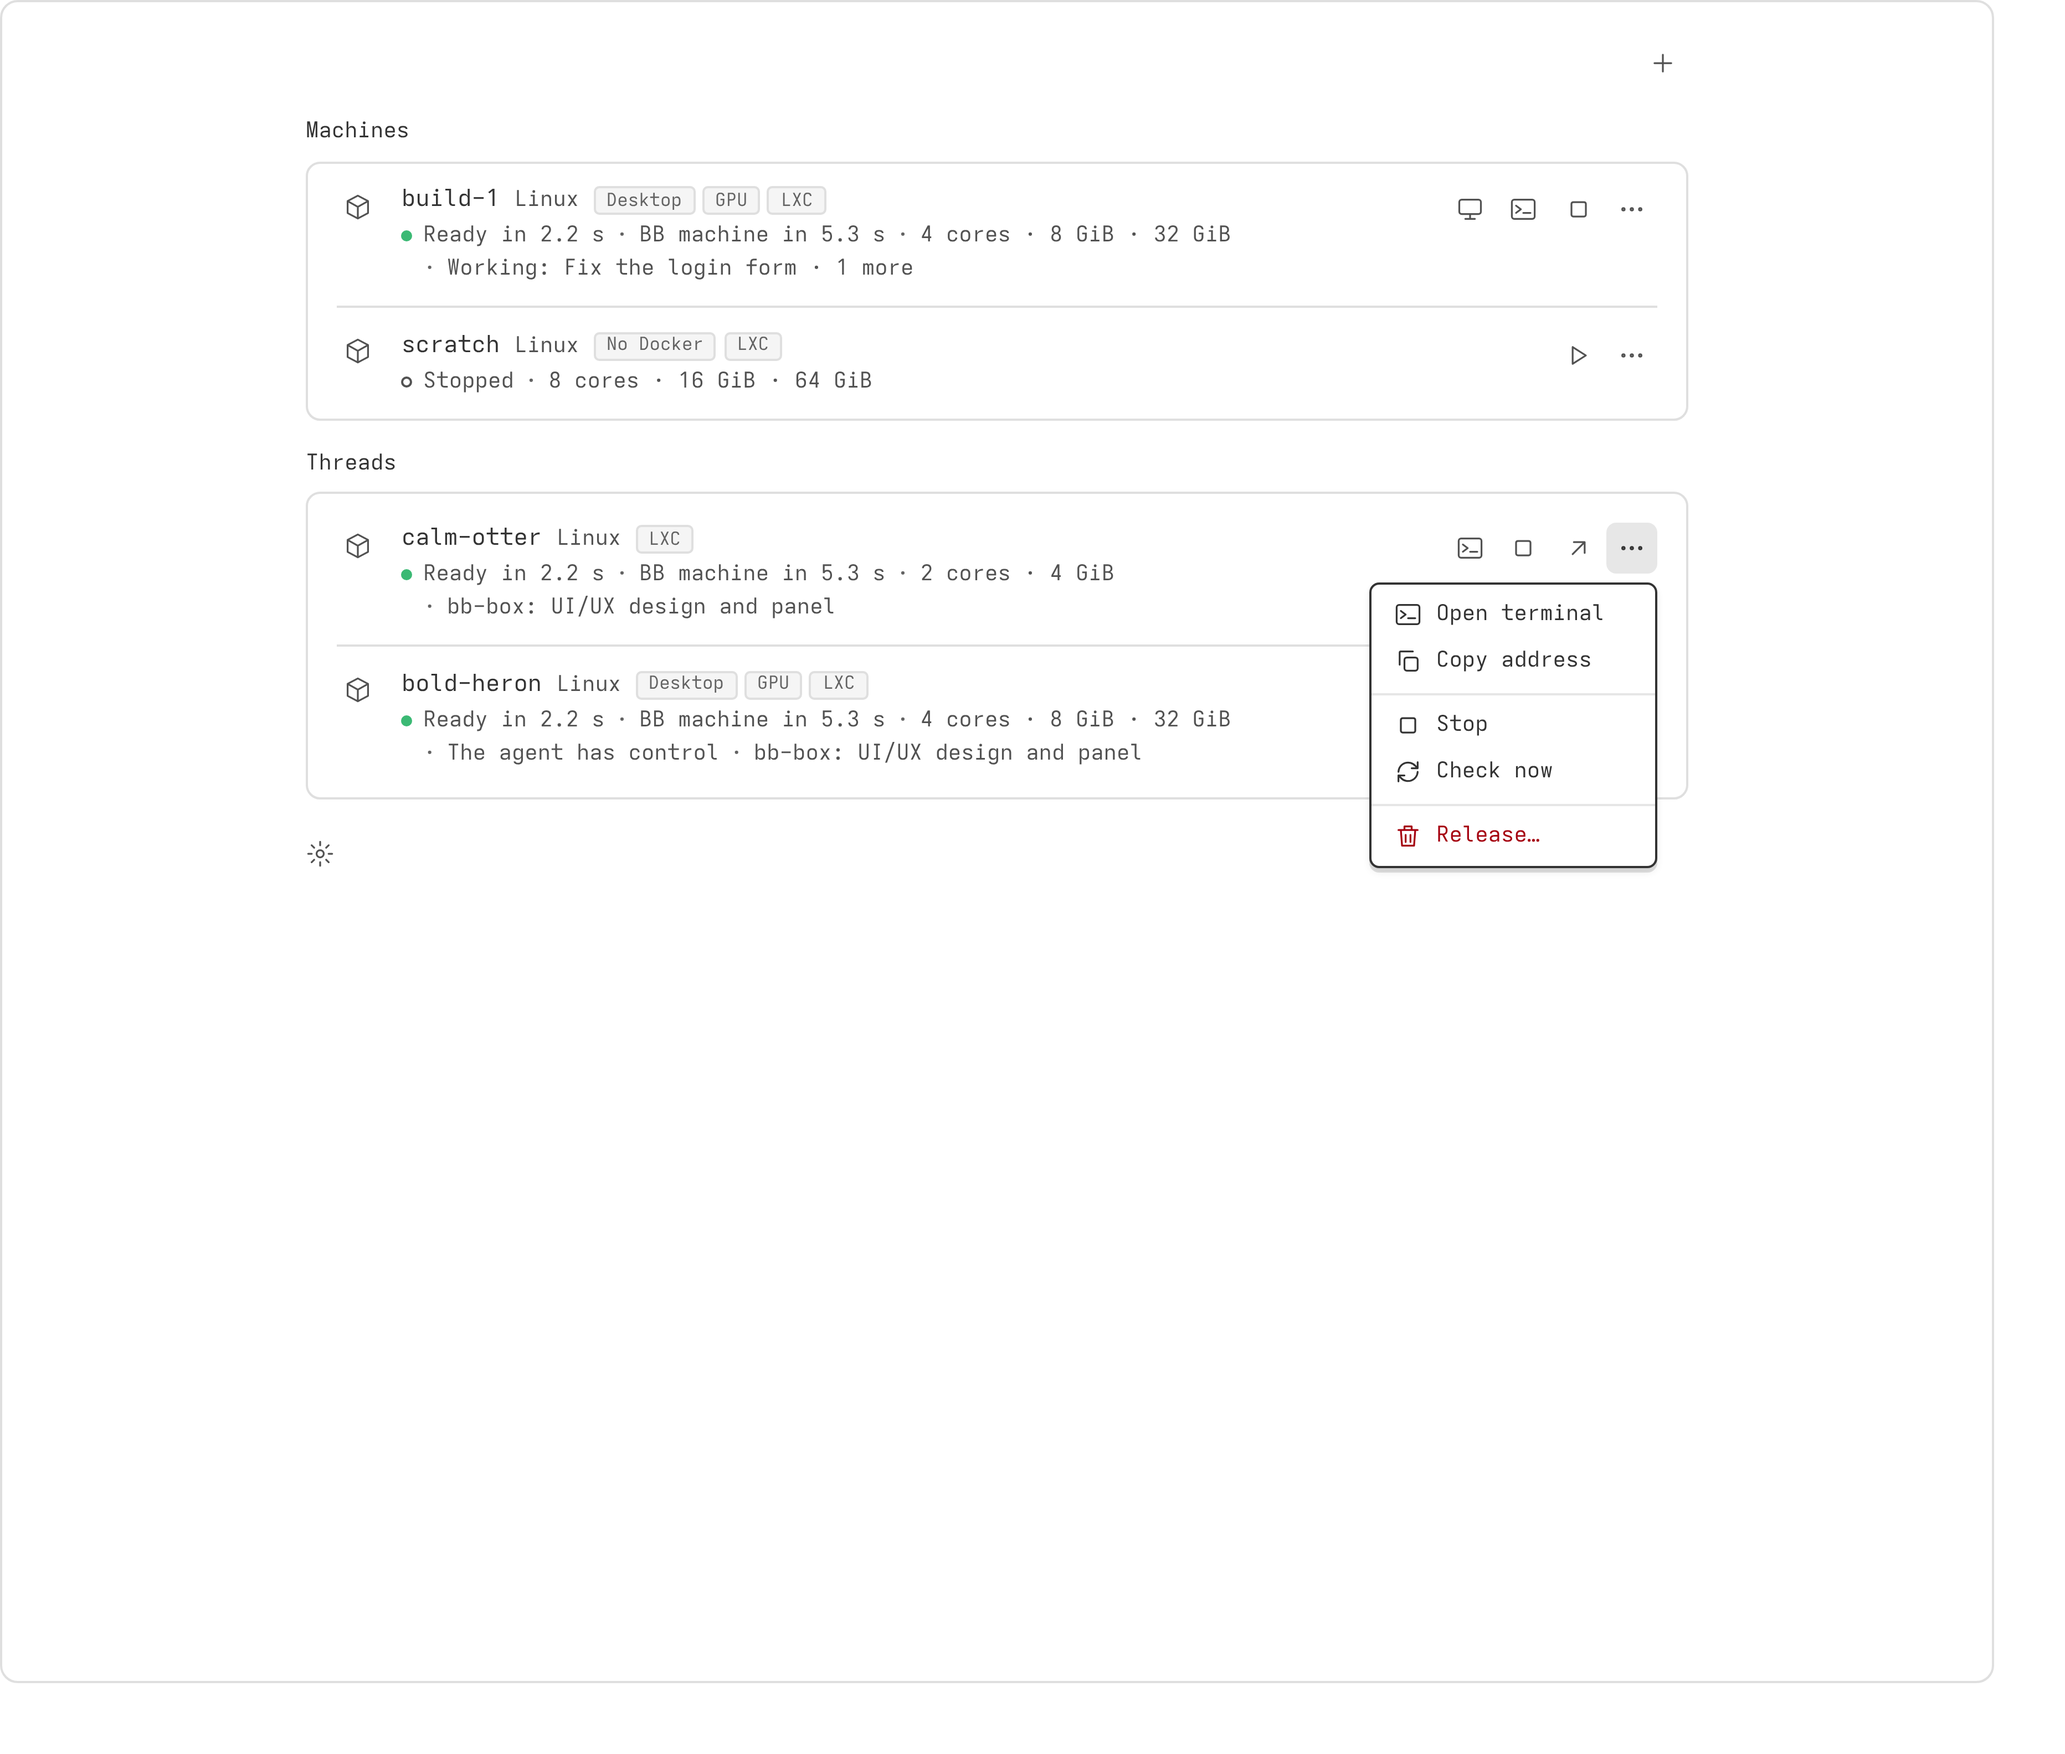
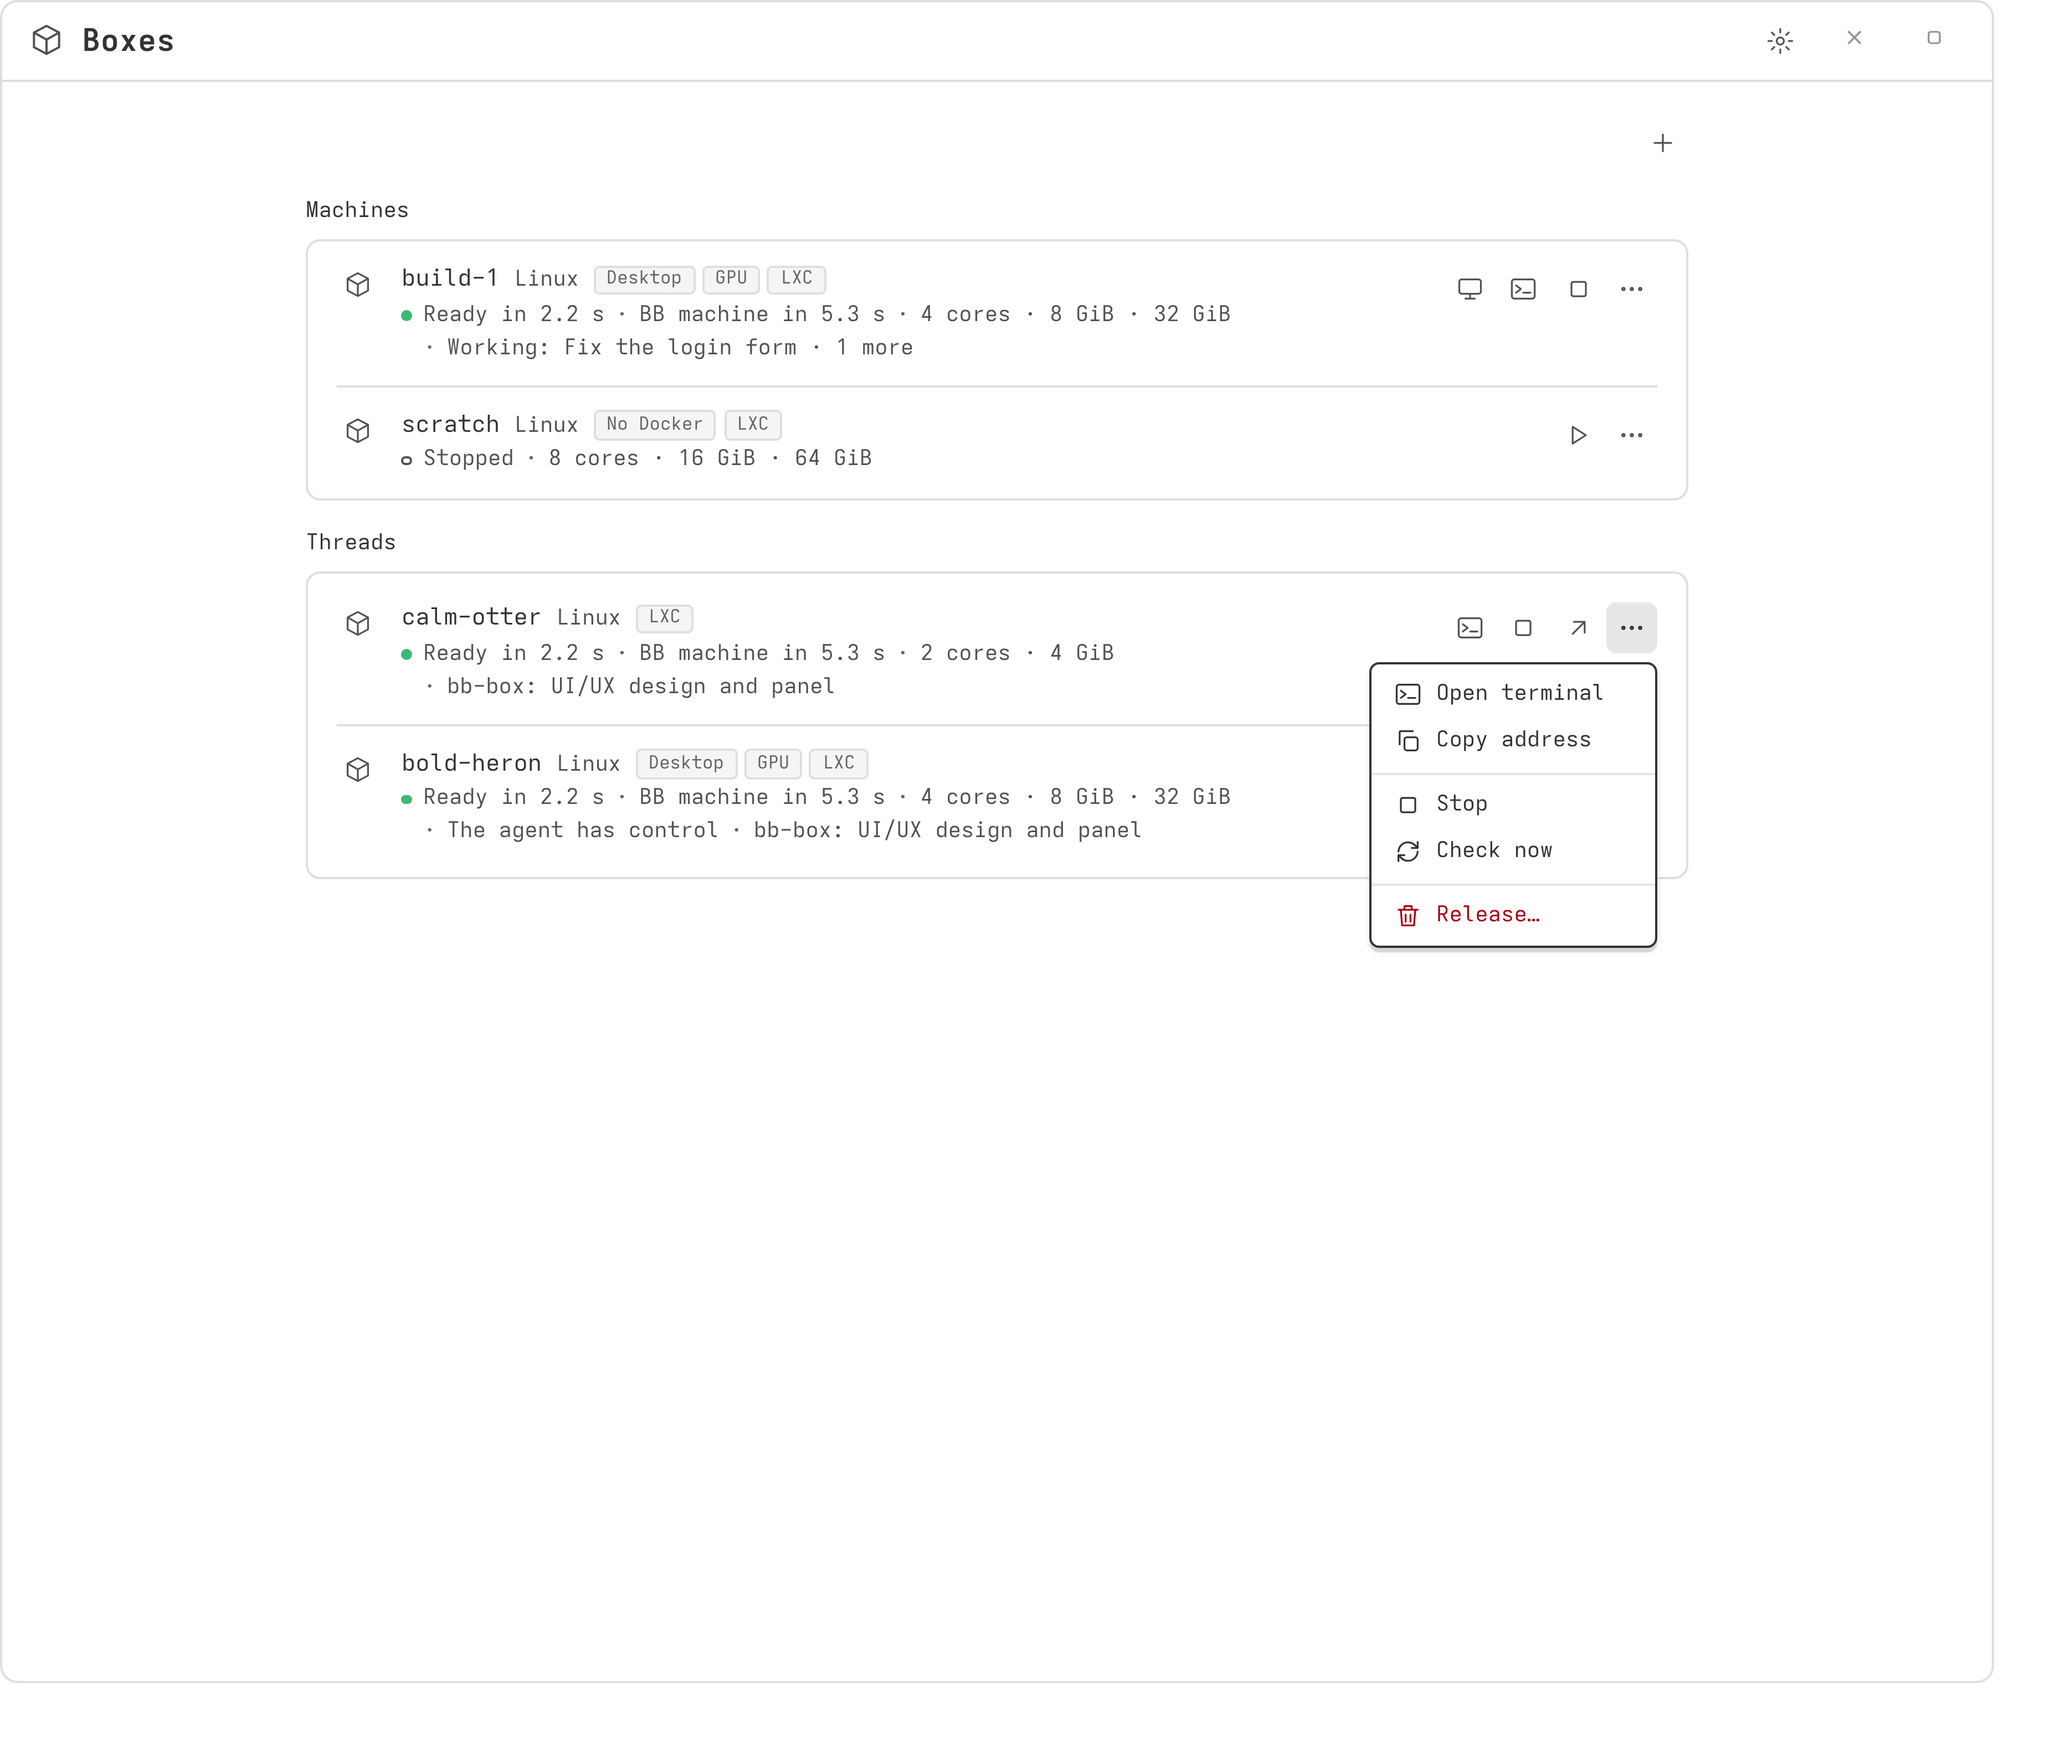
feat(app): the Boxes page's settings gear sits in BB's title bar, through the nav panel's headerContent; BB request 18 for a slot beside the title (036) (#477)
The operator's note of 5 October 2026: try the Boxes page's settings gear
in the page's header bar, next to the "Boxes" title.

SDK 0.5.29 has one supported way into that bar: the nav panel's
headerContent, a component BB renders in the title bar. BB's
PluginPanelHeader puts it on the bar's right, before the pane's own
actions and the right-panel toggle; PluginPanelHeaderCenter owns the icon
and title on the left and takes nothing from a plugin. So the gear can be
in the header bar, through the supported slot, but not right after the
title, and BB's DOM is left alone.

The gear is BoxesPageHeader, the same IconLink to Settings > BB Box with
the tooltip "BB Box settings", registered as the nav panel's
headerContent; it is gone from under the lists. The preview harness draws
a stand-in for BB's title bar over the Boxes page, with the headerContent
on its right, so the shots show where it lands. The test renders the
headerContent and checks the link, and that the page has no gear.

docs/bb-requests.md gains #18, a slot beside a nav page's title (log only,
not sent; #17 is #458's); panel.md follows.

diff --git a/test/app.test.tsx b/test/app.test.tsx
@@ -2194,19 +2194,22 @@ test("the Boxes page's Machines have settings' rows and warnings: Stop, Start an
   await waitFor(() => expect(changes.at(-1)).toBe("machines.remove box_m2"));
 });
 
-test("the Boxes page ends with the BB Box settings gear under the lists, a link to Settings > BB Box; the plus stays alone at the top", async () => {
+test("the Boxes page's settings gear sits in BB's title bar, through the nav panel's headerContent, as a link to Settings > BB Box", async () => {
+  const [page] = app.navPanels;
+  expect(page!.headerContent).toBeTruthy();
+  // The title bar's slot: the gear alone, a link, with its name in the tooltip and accessible name.
+  const header = renderSlot({ ...page!, component: page!.headerContent! }, { subPath: "" }, { rpc: server([box()]).handlers, pluginId: "bb-box" });
+  const settingsLink = header.getByRole("link", { name: "BB Box settings" });
+  expect(settingsLink.getAttribute("href")).toBe("/settings/plugins/bb-box");
+  expect(settingsLink.textContent).toBe("");
+  cleanup();
+  // The page itself has no gear any more, under the lists or beside the plus.
   const list = boxesPage(server([box()]).handlers);
   await list.findByText("calm-otter");
-  // A link, not a button calling openUrl: openUrl takes only http(s) URLs and did nothing with this app path (5 October 2026).
-  const settingsLink = list.getByRole("link", { name: "BB Box settings" });
-  expect(settingsLink.getAttribute("href")).toBe("/settings/plugins/bb-box");
-  // The gear alone, no text; under the lists, after the last row, not beside the plus.
-  expect(settingsLink.textContent).toBe("");
-  expect(settingsLink.closest("div")?.querySelector('button[aria-label="Add machine"]')).toBeNull();
-  const lastRow = list.getByRole("button", { name: "calm-otter: details" });
-  expect(lastRow.compareDocumentPosition(settingsLink) & Node.DOCUMENT_POSITION_FOLLOWING).toBeTruthy();
+  expect(list.queryByRole("link", { name: "BB Box settings" })).toBeNull();
   expect(list.queryByRole("button", { name: "BB Box settings" })).toBeNull();
 });
+
 
 
 test("a refusal in the Box panel or on the Boxes page is a red line with Dismiss", async () => {

diff --git a/scripts/preview/harness.js b/scripts/preview/harness.js
@@ -194,7 +194,7 @@ frame.style.flexDirection = "column";
 root.style.flex = "1";
 root.style.minHeight = "0";
 chrome.innerHTML = scene.chrome ?? "";
-if (!scene.chrome) chrome.remove();
+if (!scene.chrome && !(scene.slot === "boxes-page")) chrome.remove();
 
 // The cross-thread Boxes page is slot "boxes-page"; the per-thread Box panel is
 // the thread-panel action whose id is "boxes" (BOXES_ACTION), so a "boxes" scene
@@ -206,6 +206,13 @@ const slot =
       ? slots.navPanels[0]
       : slots.threadPanelActions.find((action) => action.id === scene.slot);
 root.className = slot.layout === "flush" ? "flush" : scene.slot === "boxes-page" ? "" : "padded";
+// BB's title bar over a nav page, as PluginPanelHeader draws it: the icon and title on the left, the panel's
+// headerContent on the right, then BB's own buttons (two dim placeholders here).
+if (scene.slot === "boxes-page") {
+  chrome.className = "titlebar";
+  chrome.innerHTML = `<span class="title"><svg viewBox="0 0 24 24" fill="none" stroke="currentColor" stroke-width="1.5" stroke-linecap="round" stroke-linejoin="round"><path d="M12 2.5 20.5 7v10L12 21.5 3.5 17V7z"/><path d="M3.8 7.2 12 11.8l8.2-4.6M12 11.8v9.5"/></svg>${slot.title}</span><span class="spacer"></span><span class="header-content" data-bb-plugin="bb-box"></span><span class="bb-button">×</span><span class="bb-button">▢</span>`;
+  if (slot.headerContent) ReactDOMClient.createRoot(chrome.querySelector(".header-content")).render(h(slot.headerContent, { subPath: scene.props?.subPath ?? "" }));
+}
 const reactRoot = ReactDOMClient.createRoot(root);
 reactRoot.render(h(slot.component, scene.props ?? { threadId: THREAD, params: null }));
 await new Promise((resolve) => setTimeout(resolve, 300));

diff --git a/src/app/desktop.tsx b/src/app/desktop.tsx
@@ -116,6 +116,15 @@ function visibleCursor(image: { rgbaPixels: Uint8Array; w: number; h: number } |
   return false;
 }
 
+/**
+ * The Boxes page's part of BB's title bar (`headerContent`): the settings gear, a link to Settings > BB Box, with
+ * the tooltip "BB Box settings" (the operator, 5 October 2026). SDK 0.5.29 offers this slot on the bar's right,
+ * before BB's own buttons, and none beside the title (docs/bb-requests.md #18).
+ */
+export function BoxesPageHeader() {
+  return <IconLink label="BB Box settings" icon="Settings" href={SETTINGS_PATH} />;
+}
+
 /** Where the Boxes page shows one box, for a new browser tab. */
 export function pageHref(pluginId: string, threadId: string, boxId: string): string {
   return `/plugins/${encodeURIComponent(pluginId)}/${DESKTOP_PAGE}/${encodeURIComponent(threadId)}/${encodeURIComponent(boxId)}`;
@@ -1137,10 +1146,6 @@ function BoxList() {
             </div>
           </div>
         ) : null}
-        {/* Where the page's content ends, left-aligned with the lists: the gear alone, named in its tooltip (the operator, 5 October 2026); the plus stays alone at the top. */}
-        <div>
-          <IconLink label="BB Box settings" icon="Settings" href={SETTINGS_PATH} className="-ml-1.5" />
-        </div>
         {machineActions.dialogs}
         <InUseDialog inUse={inUse} words={{ release: "Release", stop: "Stop" }} onClose={() => setInUse(null)} onForce={(found) => void actOn(inUse?.threadId ?? "")(found.method, found.box, true)} />
       </div>

diff --git a/scripts/preview/index.html b/scripts/preview/index.html
@@ -15,6 +15,12 @@
   #chrome { display: flex; align-items: center; gap: 8px; padding: 8px 12px; border-bottom: 1px solid var(--border); font-size: 12px; color: var(--muted-foreground); }
   #chrome .pill { display: inline-flex; align-items: center; gap: 6px; padding: 4px 10px; border-radius: 6px; background: var(--state-active); color: var(--foreground); }
   #chrome .pill svg { width: 14px; height: 14px; }
+  #chrome.titlebar { padding: 6px 12px; }
+  #chrome.titlebar .title { display: inline-flex; align-items: center; gap: 8px; font-size: 14px; font-weight: 600; color: var(--foreground); }
+  #chrome.titlebar .title svg { width: 16px; height: 16px; color: var(--muted-foreground); }
+  #chrome.titlebar .spacer { flex: 1; }
+  #chrome.titlebar .header-content { display: inline-flex; align-items: center; gap: 8px; }
+  #chrome.titlebar .bb-button { display: inline-flex; width: 28px; justify-content: center; color: var(--muted-foreground); opacity: 0.6; }
   #root.padded { padding: 16px; }
   #root.flush { height: 100%; }
   [data-icon-root] { display: inline-block; }

diff --git a/app.tsx b/app.tsx
@@ -4,7 +4,7 @@
 
 import { definePluginApp } from "@get-bb/plugin-sdk/app";
 import { BOXES_ACTION } from "./src/app/common.tsx";
-import { DESKTOP_ACTION, DESKTOP_PAGE, DesktopPanel, BoxesPage } from "./src/app/desktop.tsx";
+import { DESKTOP_ACTION, DESKTOP_PAGE, DesktopPanel, BoxesPage, BoxesPageHeader } from "./src/app/desktop.tsx";
 import { BoxesPanel } from "./src/app/panel.tsx";
 import { NewBoxInputs } from "./src/app/new-box-inputs.tsx";
 import { SettingsSection } from "./src/app/settings.tsx";
@@ -37,6 +37,8 @@ export default definePluginApp((app) => {
     icon: "bb-box/box",
     path: DESKTOP_PAGE,
     component: BoxesPage,
+    // The settings gear, in BB's title bar: the slot sits on the bar's right, before BB's own buttons.
+    headerContent: BoxesPageHeader,
   });
   app.slots.settingsSection({
     id: "configuration",

diff --git a/docs/bb-requests.md b/docs/bb-requests.md
@@ -24,6 +24,7 @@ server protocol 219). They are drafts until filed with BB.
 | [Give a plugin's CLI the caller's files](#15-give-a-plugins-cli-the-callers-files) | draft | `bb box image set --script-file` and `bb box config apply` read their files on BB's server, so they fail from any other machine; agents use `box_image_set`, which takes the text |
 | [Alert dialogs that do not fly in from the corner](#16-alert-dialogs-that-do-not-fly-in-from-the-corner) | draft | every plugin's alert dialog, scaffolded from the registry's `alert-dialog.tsx`, flies in from the top left on Tailwind v4; bb-box carries BB's own dialog motion in its copy |
 | [Carry providers' own config to every machine](#17-carry-providers-own-config-to-every-machine) | draft | a box lacks the config a provider reads from its machine, such as pi's `models.json`, so bb-box carries a list of files of its own into every box (#455) |
+| [A nav page's title-bar action beside its title](#18-a-nav-pages-title-bar-action-beside-its-title) | draft | the Boxes page's settings gear sits at the title bar's right, before BB's own buttons, not beside the "Boxes" title where the operator wanted it |
 
 ## 1. BB's host app on Windows
 
@@ -653,6 +654,25 @@ under the box user's home and their contents, kept as secrets, which bb-box
 writes into every Linux and macOS box as it joins BB, and into running boxes
 when they change (#455). Windows boxes, and machines that are not boxes, still
 need the files copied by hand.
+
+## 18. A nav page's title-bar action beside its title
+
+**What bb-box needs.** The Boxes page's settings gear in BB's title bar
+right after the page's title, "Boxes", small and dim like the title's own
+icon (the operator's note of 5 October 2026).
+
+**What BB does now.** `PluginNavPanelRegistration.headerContent` (plugin
+SDK 0.5.29) renders a plugin's component in the title bar, but on its right:
+`PluginPanelHeaderActions` puts it before the pane's own actions and the
+right-panel toggle, while `PluginPanelHeaderCenter` owns the icon and title
+on the left and takes nothing from the plugin.
+
+**What we ask.** A slot beside the title, such as `titleAccessory`: a small
+component rendered right after the title in `PluginPanelHeaderCenter`,
+contained as `headerContent` is, for an icon button or a short status.
+
+**Until then.** The gear is bb-box's `headerContent`, at the bar's right,
+before BB's buttons.
 
 ## Checked, no request needed
 

diff --git a/docs/design/panel.md b/docs/design/panel.md
@@ -713,10 +713,12 @@ able to add a new box there too, not have to go to settings"); the new
 machine shows under Machines as it starts and once it is ready. Nothing
 stands on the left: the box count went with the Box panel's. Settings' Add
 machine stays as it is.
-Where the content ends, under the lists and left-aligned with them, the
-gear alone, named "BB Box settings" in its tooltip and accessible name,
-links to Settings > BB Box (the operator, 5 October 2026, who moved it
-there from beside the plus, then asked for no text label). It is a link,
+The settings gear, "BB Box settings" in its tooltip and accessible name,
+sits in BB's title bar over the page, a link to Settings > BB Box (the
+operator, 5 October 2026, who moved it from beside the plus to under the
+lists and then into the header). SDK 0.5.29 gives a nav page one place in
+that bar, `headerContent`, on its right before BB's own buttons, and none
+beside the title, so it sits there (docs/bb-requests.md #18). It is a link,
 not a button calling `openUrl`: BB's `openUrl` opens only http(s) URLs, by
 the person's browser preference, and returns false for an app path, so the
 first version did nothing; `UrlLink` routes an app path in the app. The
